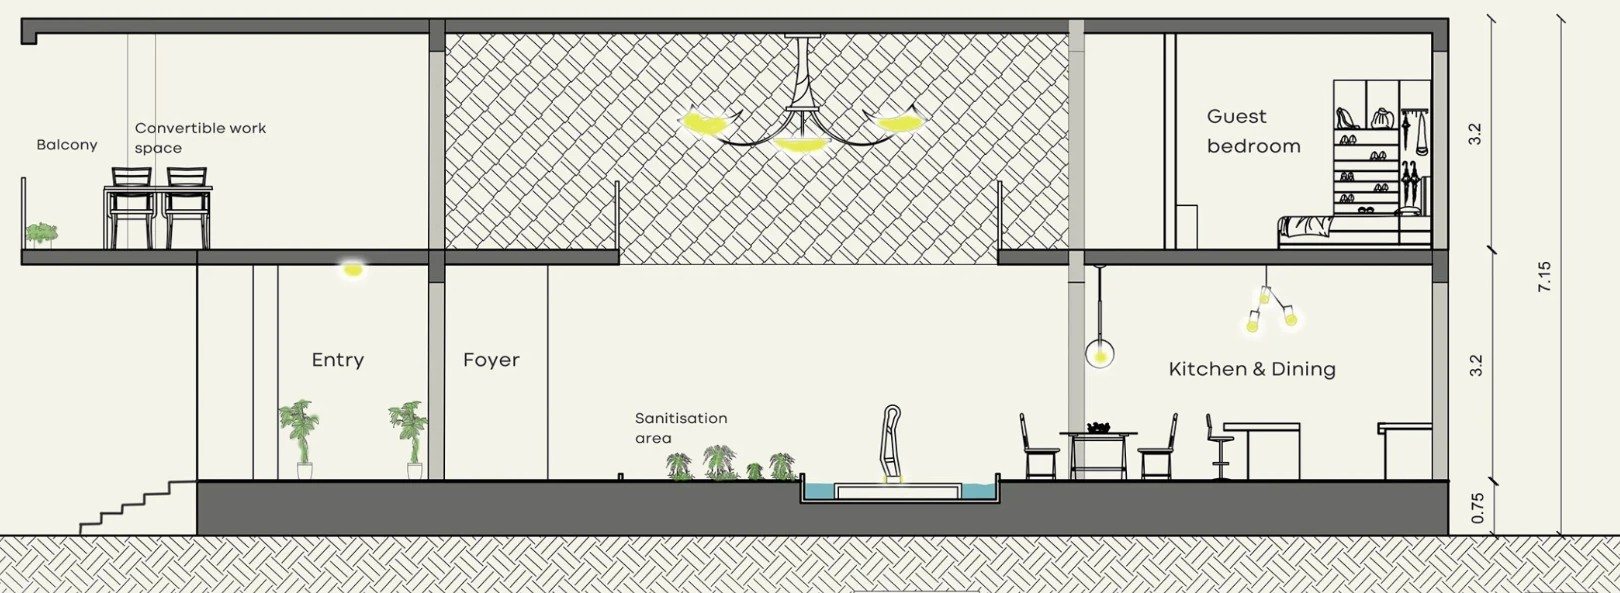
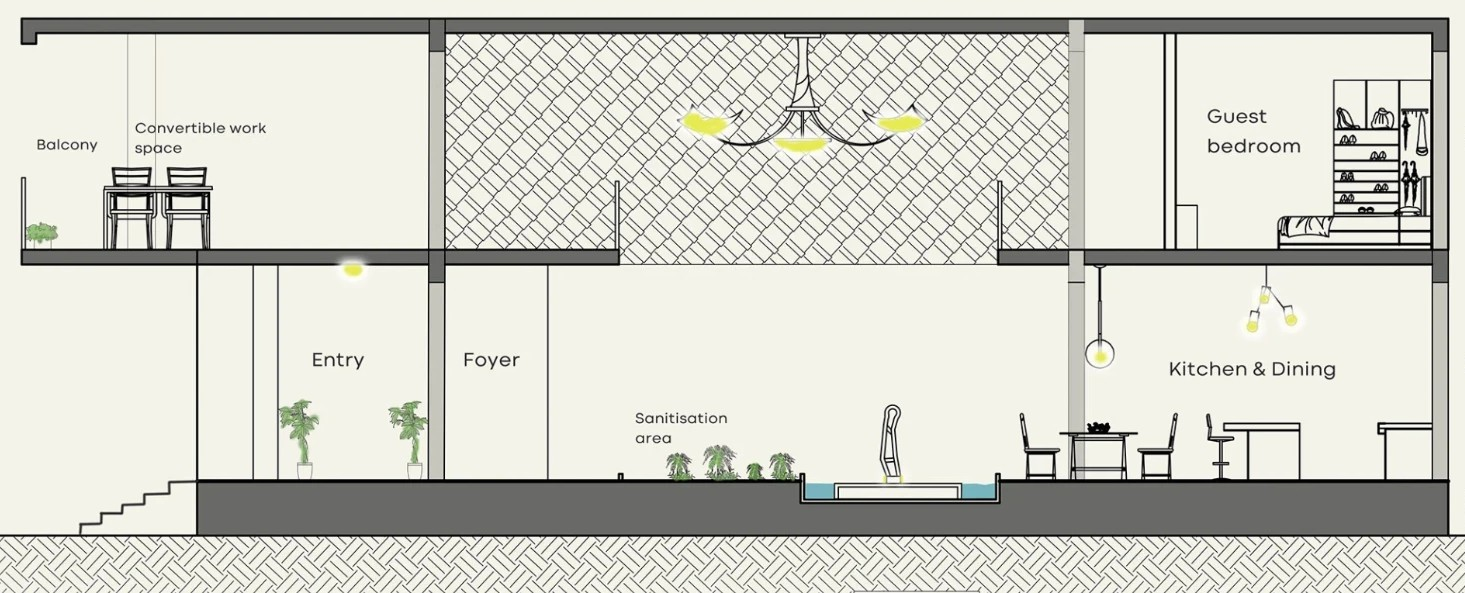
v14: remove the dimension lines from the section
Claude-Session: https://claude.ai/code/session_01GUymvVu59LT6427H12zdcx

Changed region(s): [[0.0, 0.0304, 1.0, 1.0], [0.0, 0.1821, 0.1843, 0.425], [0.0, 0.0304, 0.0307, 0.0911]]

diff --git a/v14.html b/v14.html
@@ -74,8 +74,8 @@
         <p class="hs-hint">Pick a room. You’re there in one click.</p>
       </header>
 <figure class="sx" data-sx>
-        <img src="images/work/arch/section-aa.jpg" alt="Section A–A′ of a two-storey house I designed: work space, guest bedroom, kitchen and dining, a double-height atrium and the entry" width="1620" height="593" loading="lazy">
-        <svg class="sx-svg" viewBox="0 0 1620 593" role="group" aria-label="Each room of the section is a part of this portfolio."><a class="sx-room" href="#work" data-k="work" aria-label="01 The work"><polygon class="sx-hl" points="22,32 430,32 430,250 22,250"/><g class="sx-tag" transform="translate(40 50)"><rect width="203" height="46" rx="23"/><text x="22" y="30"><tspan class="sx-n">01</tspan>  The work  →</text></g></a><a class="sx-room" href="#process" data-k="process" aria-label="02 How I work"><polygon class="sx-hl" points="1085,32 1435,32 1435,248 1085,248"/><g class="sx-tag" transform="translate(1100 50)"><rect width="227" height="46" rx="23"/><text x="22" y="30"><tspan class="sx-n">02</tspan>  How I work  →</text></g></a><a class="sx-room" href="#about" data-k="about" aria-label="03 About me"><polygon class="sx-hl" points="1085,265 1435,265 1435,480 1085,480"/><g class="sx-tag" transform="translate(1110 278)"><rect width="203" height="46" rx="23"/><text x="22" y="30"><tspan class="sx-n">03</tspan>  About me  →</text></g></a><a class="sx-room" href="#playground" data-k="playground" aria-label="04 Playground"><polygon class="sx-hl" points="445,32 1068,32 1068,480 548,480 548,265 445,265"/><g class="sx-tag" transform="translate(690 300)"><rect width="227" height="46" rx="23"/><text x="22" y="30"><tspan class="sx-n">04</tspan>  Playground  →</text></g></a><a class="sx-room" href="#contact" data-k="contact" aria-label="05 Let’s talk"><polygon class="sx-hl" points="198,265 548,265 548,480 198,480"/><g class="sx-tag" transform="translate(212 280)"><rect width="227" height="46" rx="23"/><text x="22" y="30"><tspan class="sx-n">05</tspan>  Let’s talk  →</text></g></a></svg>
+        <img src="images/work/arch/section-aa.jpg" alt="Section A–A′ of a two-storey house I designed: work space, guest bedroom, kitchen and dining, a double-height atrium and the entry" width="1465" height="593" loading="lazy">
+        <svg class="sx-svg" viewBox="0 0 1465 593" role="group" aria-label="Each room of the section is a part of this portfolio."><a class="sx-room" href="#work" data-k="work" aria-label="01 The work"><polygon class="sx-hl" points="22,32 430,32 430,250 22,250"/><g class="sx-tag" transform="translate(40 50)"><rect width="203" height="46" rx="23"/><text x="22" y="30"><tspan class="sx-n">01</tspan>  The work  →</text></g></a><a class="sx-room" href="#process" data-k="process" aria-label="02 How I work"><polygon class="sx-hl" points="1085,32 1435,32 1435,248 1085,248"/><g class="sx-tag" transform="translate(1100 50)"><rect width="227" height="46" rx="23"/><text x="22" y="30"><tspan class="sx-n">02</tspan>  How I work  →</text></g></a><a class="sx-room" href="#about" data-k="about" aria-label="03 About me"><polygon class="sx-hl" points="1085,265 1435,265 1435,480 1085,480"/><g class="sx-tag" transform="translate(1110 278)"><rect width="203" height="46" rx="23"/><text x="22" y="30"><tspan class="sx-n">03</tspan>  About me  →</text></g></a><a class="sx-room" href="#playground" data-k="playground" aria-label="04 Playground"><polygon class="sx-hl" points="445,32 1068,32 1068,480 548,480 548,265 445,265"/><g class="sx-tag" transform="translate(690 300)"><rect width="227" height="46" rx="23"/><text x="22" y="30"><tspan class="sx-n">04</tspan>  Playground  →</text></g></a><a class="sx-room" href="#contact" data-k="contact" aria-label="05 Let’s talk"><polygon class="sx-hl" points="198,265 548,265 548,480 198,480"/><g class="sx-tag" transform="translate(212 280)"><rect width="227" height="46" rx="23"/><text x="22" y="30"><tspan class="sx-n">05</tspan>  Let’s talk  →</text></g></a></svg>
         <figcaption>Section A–A′ · a house I designed</figcaption>
       </figure>
       <nav class="sx-chips" aria-label="Rooms"><a href="#work" data-k="work"><b>01</b>The work</a><a href="#process" data-k="process"><b>02</b>How I work</a><a href="#about" data-k="about"><b>03</b>About me</a><a href="#playground" data-k="playground"><b>04</b>Playground</a><a href="#contact" data-k="contact"><b>05</b>Let’s talk</a></nav>

diff --git a/assets/css/v14.css b/assets/css/v14.css
@@ -3,7 +3,7 @@
 .sx { position: relative; margin: 0 auto; max-width: 1180px; width: 100%; justify-self: center; }
 .sx img { width: 100%; height: auto; border-radius: 10px; }
 .sx figcaption { margin-top: 12px; font-size: 13px; letter-spacing: .04em; color: var(--mute); text-align: left; }
-.sx-svg { position: absolute; left: 0; top: 0; width: 100%; aspect-ratio: 1620 / 593; height: auto; }
+.sx-svg { position: absolute; left: 0; top: 0; width: 100%; aspect-ratio: 1465 / 593; height: auto; }
 .sx-room { cursor: pointer; outline: none; }
 .sx-hl { fill: var(--rose); fill-opacity: 0; stroke: var(--rose); stroke-opacity: 0; stroke-width: 2; stroke-dasharray: 6 5; vector-effect: non-scaling-stroke; mix-blend-mode: multiply; pointer-events: all; }
 .sx-tag rect { fill: var(--paper); stroke: var(--rose); stroke-width: 1.5; vector-effect: non-scaling-stroke; }
